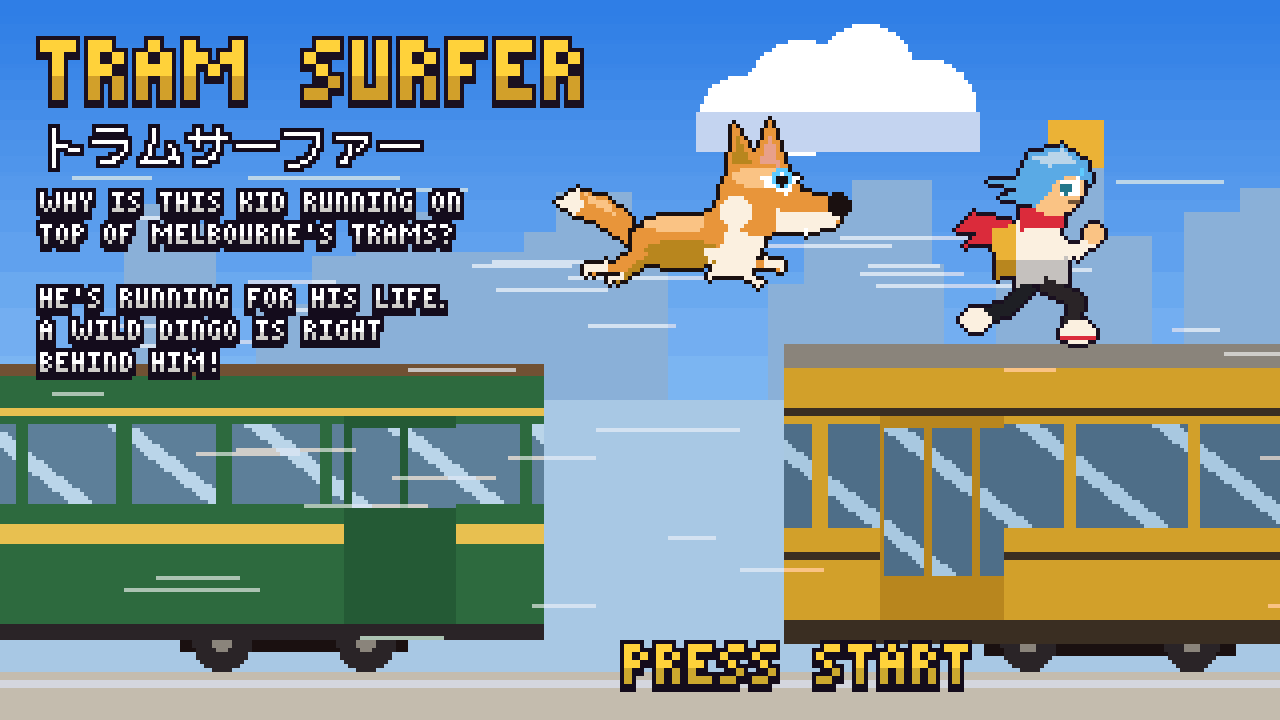
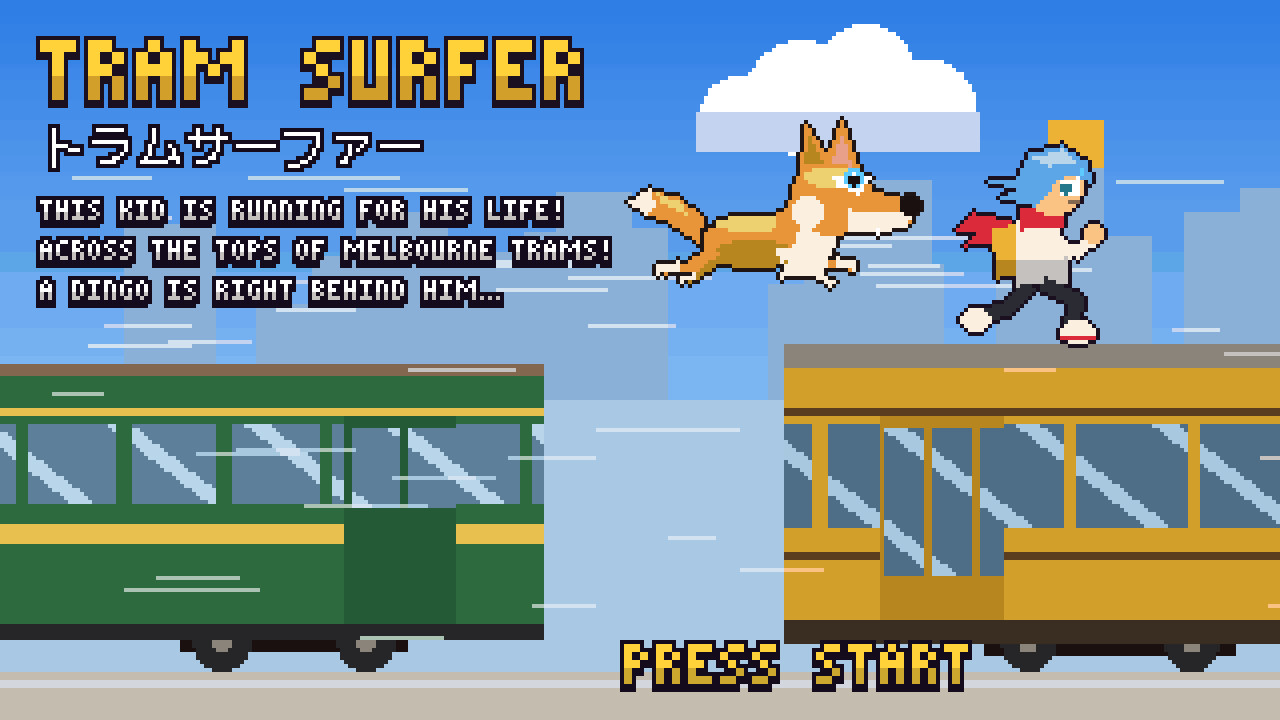
Start screen: state the story instead of asking it
Uses the user's three lines: This kid is running for his life! / Across
the tops of Melbourne trams! / A dingo is right behind him… (shown in
capitals by the pixel font, which gains an ellipsis glyph).

Claude-Session: https://claude.ai/code/session_01KdqaUZvYP4dHZn966imf5E

diff --git a/concept/characters.py b/concept/characters.py
@@ -413,14 +413,15 @@ def start_screen():
         img[y, x:x + L] = img[y, x:x + L] * 0.4 + 255 * 0.6
     # the chase: kid on the Z roof, dingo leaping the gap
     paste(img, kid_sprite(1.0), 238, int(ground - 3.4 * ppm) - 52)
-    paste(img, dingo_sprite("pup", 0.72), 132, int(ground - 3.2 * ppm) - 64)
+    paste(img, dingo_sprite("pup", 0.72), 150, int(ground - 3.2 * ppm) - 64)
     # title and story
     text(img, 10, 10, "TRAM SURFER", "#ffd23a", 3, "#1a1020")
     jp_text(img, 10, 30, "トラムサーファー", "#ffffff")
-    story = ["WHY IS THIS KID RUNNING ON", "TOP OF MELBOURNE'S TRAMS?", "",
-             "HE'S RUNNING FOR HIS LIFE.", "A WILD DINGO IS RIGHT", "BEHIND HIM!"]
-    for i, line in enumerate(story):
-        text(img, 10, 48 + i * 8, line, "#ffffff")
+    story = ["This kid is running for his life!",
+             "Across the tops of Melbourne trams!",
+             "A dingo is right behind him…"]
+    for i, line in enumerate(story):  # the pixel font is capitals only
+        text(img, 10, 50 + i * 10, line.upper(), "#ffffff")
     img = quantise(img, 64)
     w = len("PRESS START") * 4 * 2
     text(img, (W - w) // 2 + 40, 171 - 10, "PRESS START", "#ffd23a", 2)

diff --git a/concept/render.py b/concept/render.py
@@ -1194,6 +1194,7 @@ FONT = {
     '?': "##...#.#.....#.",
     "'": ".#..#..........",
     ',': "..........#.#..",
+    '…': "....................#.#.#",
 }
 FONT[" "] = "." * 15
 
